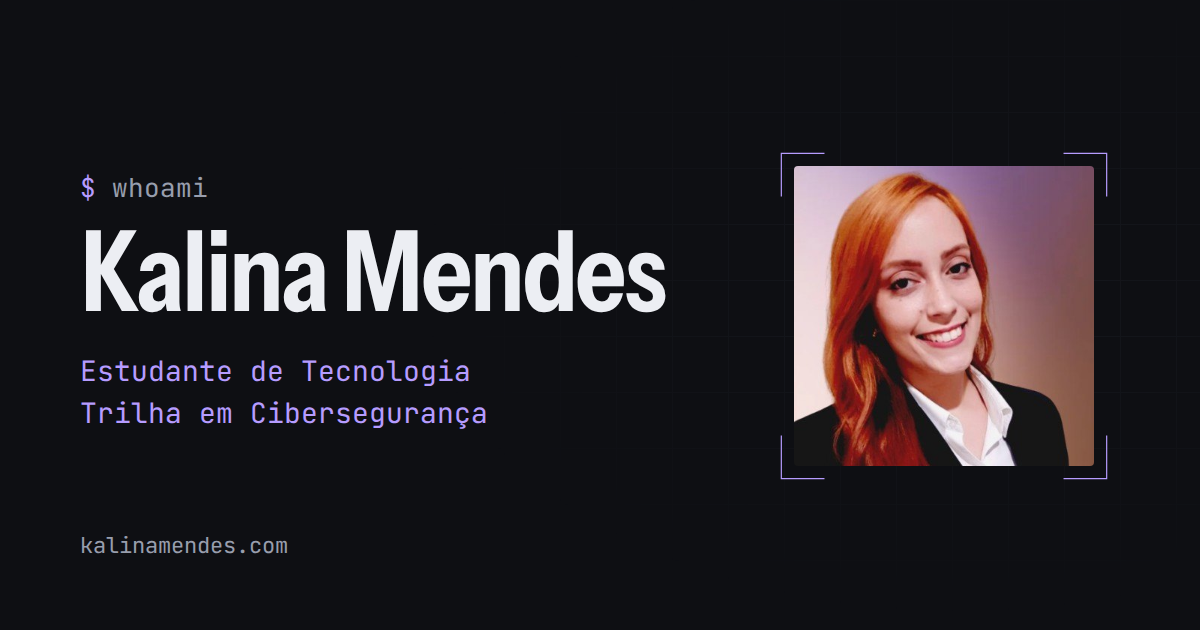
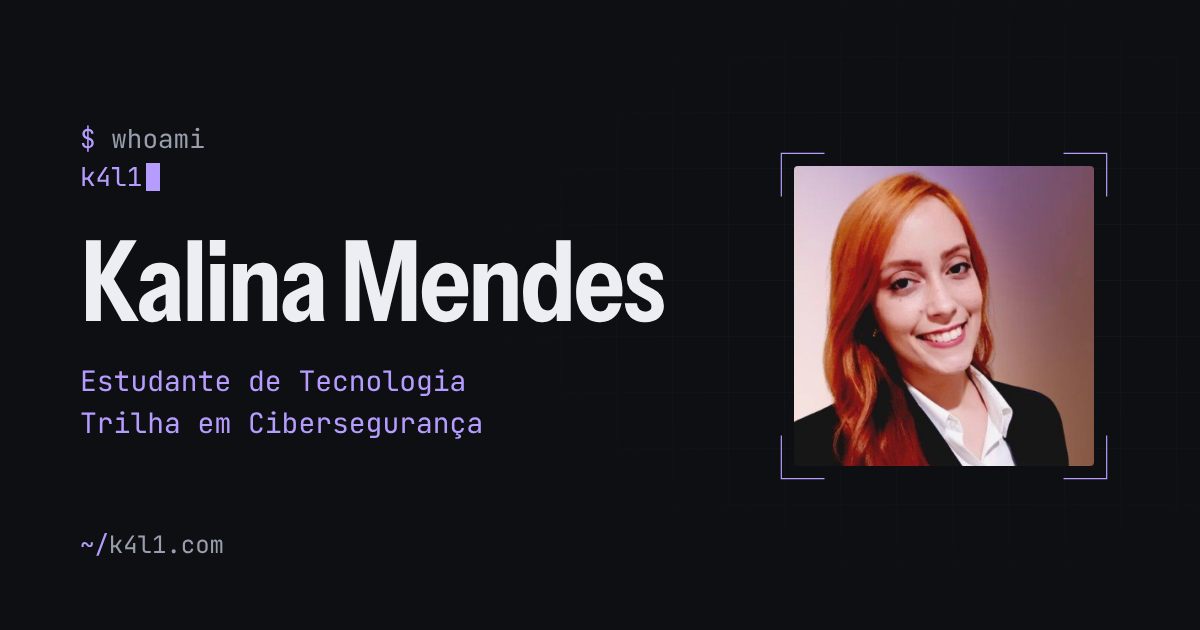
Add files via upload

diff --git a/index.html b/index.html
@@ -3,19 +3,19 @@
 <head>
   <meta charset="UTF-8">
   <meta name="viewport" content="width=device-width, initial-scale=1">
-  <title>Kalina Mendes | Estudante de Tecnologia, Trilha em Cibersegurança</title>
+  <title>K4L1</title>
   <meta name="description" content="Kalina Mendes, estudante de Análise e Desenvolvimento de Sistemas com trilha em cibersegurança. Formação, trajetória, base técnica e contato.">
   <meta name="author" content="Kalina Mendes">
   <meta name="theme-color" content="#0E0F13">
-  <link rel="canonical" href="https://kalina-mendes.github.io/">
+  <link rel="canonical" href="https://k4l1.com/">
 
   <meta property="og:type" content="profile">
   <meta property="og:locale" content="pt_BR">
   <meta property="og:site_name" content="Kalina Mendes">
   <meta property="og:title" content="Kalina Mendes | Estudante de Tecnologia, Trilha em Cibersegurança">
   <meta property="og:description" content="Estudante de Análise e Desenvolvimento de Sistemas com trilha em cibersegurança.">
-  <meta property="og:url" content="https://kalina-mendes.github.io/">
-  <meta property="og:image" content="https://kalina-mendes.github.io/assets/images/og-image.png">
+  <meta property="og:url" content="https://k4l1.com/">
+  <meta property="og:image" content="https://k4l1.com/assets/images/og-image.png">
   <meta property="og:image:width" content="1200">
   <meta property="og:image:height" content="630">
   <meta name="twitter:card" content="summary_large_image">
@@ -35,7 +35,7 @@
   <header class="site-header" data-header>
     <div class="container header-inner">
       <a class="brand" href="#topo" aria-label="Kalina Mendes, voltar ao início">
-        <span class="brand-prompt" aria-hidden="true">~/</span>kalina-mendes
+        <span class="brand-prompt" aria-hidden="true">~/</span>k4l1
       </a>
 
       <button class="nav-toggle" type="button" aria-expanded="false" aria-controls="menu" data-nav-toggle>
@@ -61,7 +61,10 @@
     <section class="hero" id="topo" aria-labelledby="nome">
       <div class="container hero-grid">
         <div class="hero-text">
-          <p class="prompt step" aria-hidden="true"><span class="prompt-sign">$</span> <span class="prompt-cmd">whoami</span><span class="caret"></span></p>
+          <div class="prompt step" aria-hidden="true">
+            <p><span class="prompt-sign">$</span> whoami</p>
+            <p class="prompt-out"><span data-typed>k4l1</span><span class="caret"></span></p>
+          </div>
           <h1 class="hero-name step" id="nome">Kalina Mendes</h1>
           <p class="hero-title step"><span class="hero-part">Estudante de Tecnologia</span> <span class="hero-sep" aria-hidden="true">|</span> <span class="hero-part">Trilha em Cibersegurança</span></p>
           <p class="hero-lead step">Descriptografando a cibersegurança, um byte por vez.</p>
@@ -232,7 +235,7 @@
           <article class="stack reveal">
             <h3 class="stack-title">Ferramentas</h3>
             <ul class="tags tags-mono">
-              <li>VS Code</li><li>Git</li><li>GitHub</li><li>Unity</li><li>Godot</li><li>Blender</li>
+              <li>VS Code</li><li>Git</li><li>GitHub</li><li>Unity</li><li>Supabase</li><li>Kali Linux</li>
             </ul>
           </article>
           <article class="stack stack-wide reveal">
@@ -292,11 +295,11 @@
           <h2 class="section-title" id="contato-titulo">Canal seguro</h2>
           <p class="contact-text">Aberta a oportunidades, parcerias e troca de conhecimento. Firewall liberado para o seu e-mail.</p>
 
-          <p class="contact-mail"><a href="mailto:kalina_mendes@proton.me">kalina_mendes@proton.me</a></p>
+          <p class="contact-mail"><a href="mailto:k4l1x@proton.me">k4l1x@proton.me</a></p>
 
           <div class="contact-actions">
-            <a class="btn btn-accent" href="mailto:kalina_mendes@proton.me">Enviar e-mail</a>
-            <button class="btn btn-ghost" type="button" data-copy="kalina_mendes@proton.me">Copiar e-mail</button>
+            <a class="btn btn-accent" href="mailto:k4l1x@proton.me">Enviar e-mail</a>
+            <button class="btn btn-ghost" type="button" data-copy="k4l1x@proton.me">Copiar e-mail</button>
           </div>
           <p class="copy-feedback" role="status" aria-live="polite" data-copy-feedback></p>
         </div>
@@ -310,7 +313,7 @@
       <ul class="footer-links">
         <li><a href="https://www.linkedin.com/in/kalina-mendes/" target="_blank" rel="noopener">LinkedIn</a></li>
         <li><a href="https://github.com/kalina-mendes" target="_blank" rel="noopener">GitHub</a></li>
-        <li><a href="mailto:kalina_mendes@proton.me">E-mail</a></li>
+        <li><a href="mailto:k4l1x@proton.me">E-mail</a></li>
       </ul>
     </div>
   </footer>

diff --git a/script.js b/script.js
@@ -1,4 +1,4 @@
-/* kalinamendes.com | interações (Vanilla JS, sem dependências) */
+/* k4l1.com | interações (Vanilla JS, sem dependências) */
 (function () {
   'use strict';
 
@@ -10,6 +10,7 @@
     initReveal();
     initActiveLinks();
     initCopy();
+    initWhoami();
     const year = document.querySelector('[data-year]');
     if (year) year.textContent = new Date().getFullYear();
   });
@@ -83,6 +84,23 @@
       });
     }, { rootMargin: '-45% 0px -50% 0px' });
     map.forEach((_, section) => io.observe(section));
+  }
+
+  /* whoami: digita "Hello, World!", apaga e responde k4l1 */
+  function initWhoami() {
+    const el = document.querySelector('[data-typed]');
+    if (!el || reduceMotion.matches) return;
+    const hello = 'Hello, World!';
+    const answer = el.textContent;
+    const steps = [];
+    let t = 500;
+    for (let i = 1; i <= hello.length; i++) { steps.push([t, hello.slice(0, i)]); t += 75; }
+    t += 900;
+    for (let i = hello.length - 1; i >= 0; i--) { steps.push([t, hello.slice(0, i)]); t += 35; }
+    t += 250;
+    for (let i = 1; i <= answer.length; i++) { steps.push([t, answer.slice(0, i)]); t += 120; }
+    el.textContent = '';
+    steps.forEach(([delay, text]) => setTimeout(() => { el.textContent = text; }, delay));
   }
 
   /* Copiar e-mail, com retorno anunciado para leitores de tela */

diff --git a/style.css b/style.css
@@ -1,5 +1,5 @@
 /* =========================================================
-   kalinamendes.com
+   k4l1.com
    Modo escuro. Mobile-first. Tokens no :root.
    ========================================================= */
 
@@ -242,7 +242,9 @@ a { color: inherit; }
   color: var(--muted);
   margin-bottom: 1rem;
 }
+.prompt p { margin: 0; }
 .prompt-sign { color: var(--accent); }
+.prompt-out { color: var(--accent); min-height: 1.65em; margin-top: 0.15rem !important; }
 .caret {
   display: inline-block; width: 0.55em; height: 1.1em;
   margin-left: 0.15em; vertical-align: -0.2em;

diff --git a/README.md b/README.md
@@ -1,13 +1,13 @@
-# kalinamendes.com
+# k4l1.com
 
-Site pessoal de Kalina Mendes. HTML, CSS e JavaScript puro, sem frameworks e sem backend, pronto para o GitHub Pages com domínio próprio.
+Site pessoal de Kalina Mendes. HTML, CSS e JavaScript puro, sem frameworks e sem backend, publicado no GitHub Pages com o domínio próprio k4l1.com.
 
 ## Direção visual
 
 - **Modo escuro**, fundo grafite `#0E0F13`, texto `#ECEEF3`, texto secundário `#989EAD`.
 - **Destaque violeta** `#B69CFF`, tirado do fundo da foto de perfil. Combina com as fotos de música sem competir com elas.
 - **Tipografia:** Instrument Sans nos textos e JetBrains Mono nas datas (formato `2025/2027`), rótulos e detalhes técnicos. As duas fontes estão dentro do projeto.
-- **Personalidade de segurança, com sobriedade:** `$ whoami` no topo, moldura de "identidade verificada" na foto e títulos de seção temáticos (Perfil, Registro, Base técnica, Outra frequência, Canal seguro), cada um com um rótulo simples acima (`~/sobre`, `~/trajetoria`...). O menu usa nomes diretos.
+- **Personalidade de segurança, com sobriedade:** `$ whoami` no topo (digita "Hello, World!" e responde `k4l1`), codinome K4L1 no logo e na aba, moldura de "identidade verificada" na foto e títulos de seção temáticos (Perfil, Registro, Base técnica, Outra frequência, Canal seguro), cada um com um rótulo simples acima (`~/sobre`, `~/trajetoria`...). O menu usa nomes diretos.
 
 ## Estrutura
 
@@ -16,7 +16,7 @@ Site pessoal de Kalina Mendes. HTML, CSS e JavaScript puro, sem frameworks e sem
 ├── index.html
 ├── style.css
 ├── script.js
-├── CNAME                         domínio kalinamendes.com
+├── CNAME                         domínio k4l1.com
 ├── README.md
 └── assets/
     ├── fonts/                    Instrument Sans e JetBrains Mono
@@ -35,13 +35,13 @@ Todo o texto está no `index.html`, dividido por comentários: `TOPO`, `SOBRE`, 
 
 ## Publicar no GitHub Pages
 
-1. Crie um repositório público em github.com (por exemplo, `kalinamendes.com` ou `site`).
+1. Crie um repositório público em github.com (o deste site é `kalina-mendes.github.io`).
 2. Envie **o conteúdo** desta pasta (o `index.html` precisa ficar na raiz) em **Add file > Upload files** e clique em **Commit changes**.
 3. Em **Settings > Pages**, escolha **Deploy from a branch**, branch `main`, pasta `/ (root)`, e salve.
 
-## Ligar o domínio kalinamendes.com
+## Domínio k4l1.com
 
-O arquivo `CNAME` já está no projeto. Falta configurar o domínio no site onde você o registrou (Registro.br, Hostinger, GoDaddy etc.), na área de **DNS**:
+O domínio foi registrado na HostGator. O arquivo `CNAME` está no projeto, e a zona DNS (HostGator > Domínios > Editar Zona Avançada de DNS) tem estes registros:
 
 | Tipo | Nome | Valor |
 |---|---|---|
@@ -51,7 +51,7 @@ O arquivo `CNAME` já está no projeto. Falta configurar o domínio no site onde
 | A | @ | 185.199.111.153 |
 | CNAME | www | kalina-mendes.github.io |
 
-Depois, em **Settings > Pages**, confira se o campo **Custom domain** mostra `kalinamendes.com`. Quando o GitHub terminar a verificação (pode levar de minutos a algumas horas), marque **Enforce HTTPS**.
+Depois, em **Settings > Pages**, confira se o campo **Custom domain** mostra `k4l1.com`. Quando o GitHub terminar a verificação (pode levar de minutos a algumas horas), marque **Enforce HTTPS**.
 
 ## Acessibilidade e desempenho
 
